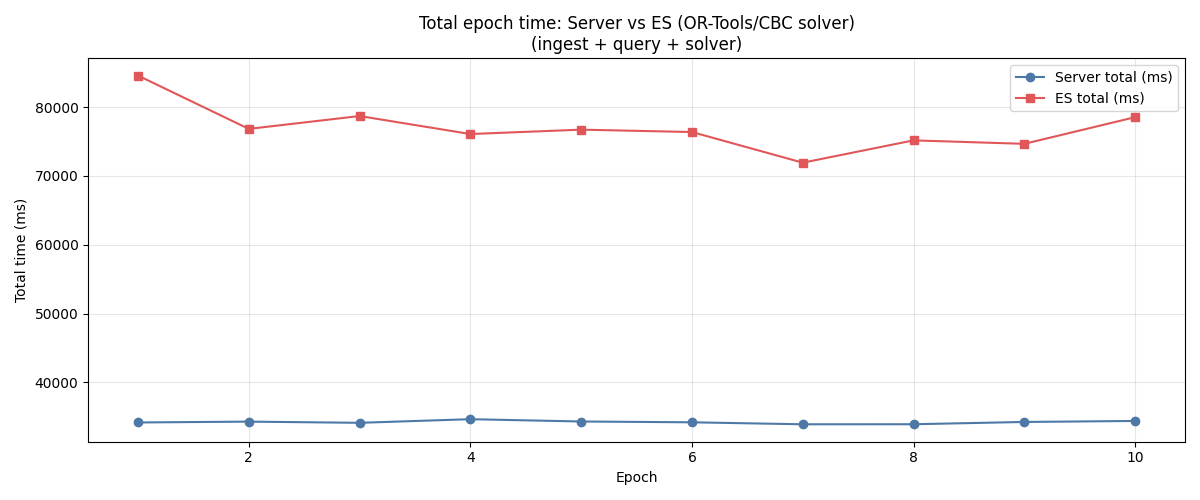
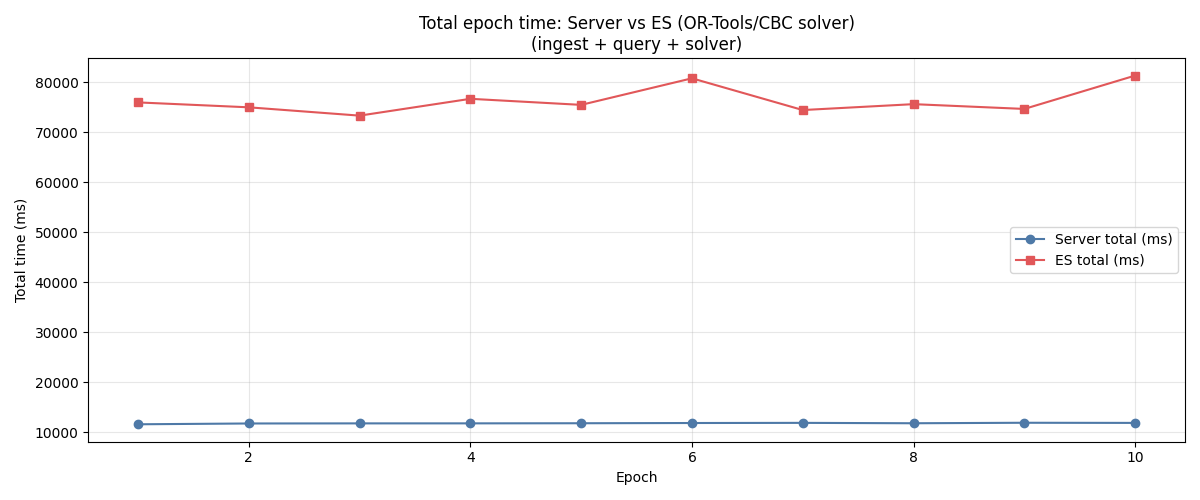
Add query-only RTT plot; fix OR-Tools server-usage extraction + solver warmup
- plot_query_solver_only.py: new plot_query_only() — single log-y bar chart
  comparing approximate (sketch) vs Elastic Search query time, no solver subplot.
- run_rtt_sweep_epoch_full_ortools.py: _extract_server_usage now reads the
  "sum" key (server switched cumulative->sum in f16475d; reading "cumulative"
  yielded all-zero usage, which made the OR-Tools CBC solve hang on a
  degenerate empty-cluster instance). Run ES solve before server solve, and
  add a discarded warmup solve per epoch so both timed solves are cache-warm
  and order-independent.
- rtt_sweep_common.py: start server with `cargo run --release`.
- Regenerated CBC 30-node data/plots with the release build.

diff --git a/scripts/run_rtt_sweep_epoch_full_ortools.py b/scripts/run_rtt_sweep_epoch_full_ortools.py
@@ -275,7 +275,9 @@ def _extract_server_usage(server_json: dict) -> Dict[str, Dict[str, float]]:
         node_id = item.get("key")
         if not node_id:
             continue
-        cumulative = item.get("cumulative") or {}
+        # Server now returns cumulative values under the "sum" key (was
+        # "cumulative" before commit f16475d switched the agg to sum).
+        cumulative = item.get("sum") or item.get("cumulative") or {}
         usage[str(node_id)] = {
             "cpu": float(cumulative.get("cpu_cores", 0.0) or 0.0),
             "memory": float(cumulative.get("memory_gb", 0.0) or 0.0),
@@ -560,15 +562,26 @@ def main() -> None:
             es_solver_ms = 0.0
             if args.run_solver and assets is not None and solver_context is not None:
                 backend = args.solver_backend
-                print(f"  running OR-Tools ({backend}) solver on server metrics ...")
+                es_usage = _extract_es_usage(es_json)
                 server_usage = _extract_server_usage(server_json)
-                server_sr = run_solver_for_usage(server_usage, assets, solver_context, solver_backend=backend)
-                server_solver_ms = server_sr.elapsed_ms
+
+                # Warmup solve (discarded). The preceding 1M-row ingest/query
+                # phase evicts the solver + OR-Tools/CBC working set from CPU
+                # cache, so whichever timed solve runs first pays a ~2x cold
+                # penalty. A throwaway solve repopulates that state, making the
+                # two timed solves below both "warm" and comparable regardless
+                # of order. (The model structure is identical for ES/server, so
+                # warming with either usage gives neither side an advantage.)
+                print(f"  warmup OR-Tools ({backend}) solver (discarded) ...")
+                run_solver_for_usage(es_usage, assets, solver_context, solver_backend=backend)
 
                 print(f"  running OR-Tools ({backend}) solver on ES metrics ...")
-                es_usage = _extract_es_usage(es_json)
                 es_sr = run_solver_for_usage(es_usage, assets, solver_context, solver_backend=backend)
                 es_solver_ms = es_sr.elapsed_ms
+
+                print(f"  running OR-Tools ({backend}) solver on server metrics ...")
+                server_sr = run_solver_for_usage(server_usage, assets, solver_context, solver_backend=backend)
+                server_solver_ms = server_sr.elapsed_ms
 
             # --- TOTALS ---
             server_total_ms = server_ingest_ms + server_query_ms + server_solver_ms

diff --git a/scripts/plot_query_solver_only.py b/scripts/plot_query_solver_only.py
@@ -143,6 +143,54 @@ def plot_query_solver_split(csv_path: Path, out_path: Path, backend: str) -> Non
     print(f"Saved: {out_path}")
 
 
+def plot_query_only(csv_path: Path, out_path: Path, backend: str) -> None:
+    """Single bar chart comparing query time only (no solver), log y-axis."""
+    rows = load_csv(csv_path)
+
+    TITLE_FS = 17
+    LABEL_FS = 15
+    TICK_FS = 13
+    LEGEND_FS = 13
+
+    epochs = [int(r["epoch"]) for r in rows]
+    s_query = [float(r["server_query_ms"]) for r in rows]
+    e_query = [float(r["es_query_ms"]) for r in rows]
+
+    x = np.arange(len(epochs))
+    bar_w = 0.35
+
+    fig, ax_q = plt.subplots(figsize=(7.2, 4.4))
+
+    ax_q.bar(x - bar_w / 2, s_query, bar_w, label="Approximate Query", color="#2a9d8f")
+    ax_q.bar(x + bar_w / 2, e_query, bar_w, label="Elastic Search Query", color="#f28e2b")
+    ax_q.set_xlabel("Epoch", fontsize=LABEL_FS)
+    ax_q.set_ylabel("Query Time (ms)", fontsize=LABEL_FS)
+    ax_q.set_yscale("log")
+    ax_q.grid(axis="y", alpha=0.3)
+    ax_q.tick_params(axis="both", labelsize=TICK_FS)
+    ax_q.set_title(
+        "Query Time Comparison\n"
+        "Approximate VS Exact",
+        fontsize=TITLE_FS,
+        pad=14,
+    )
+    ax_q.set_xticks(x)
+    ax_q.set_xticklabels([str(e) for e in epochs])
+
+    ax_q.legend(
+        loc="upper center",
+        bbox_to_anchor=(0.5, -0.18),
+        ncol=2,
+        fontsize=LEGEND_FS,
+        frameon=False,
+    )
+
+    plt.tight_layout(rect=[0, 0.06, 1, 0.97])
+    plt.savefig(out_path, dpi=220)
+    plt.close(fig)
+    print(f"Saved: {out_path}")
+
+
 def plot_query_solver_logy(csv_path: Path, out_path: Path, backend: str) -> None:
     rows = load_csv(csv_path)
 
@@ -209,6 +257,11 @@ if __name__ == "__main__":
     plot_query_solver_split(
         data_dir / "rtt_results_epoch_full_ortools_cbc_30nodes.csv",
         plot_dir / "rtt_epoch_query_solver_split_ortools_cbc_30nodes.png",
+        "CBC",
+    )
+    plot_query_only(
+        data_dir / "rtt_results_epoch_full_ortools_cbc_30nodes.csv",
+        plot_dir / "rtt_epoch_query_only_ortools_cbc_30nodes.png",
         "CBC",
     )
     plot_query_solver_logy(

diff --git a/scripts/rtt_sweep_common.py b/scripts/rtt_sweep_common.py
@@ -361,7 +361,7 @@ def start_server(log_path: Path | None = None, truncate_log: bool = False) -> su
         mode = "w" if truncate_log else "a"
         stdout_target = open(log_path, mode, encoding="utf-8")
     proc = subprocess.Popen(
-        ["cargo", "run"],
+        ["cargo", "run", "--release"],
         cwd=server_dir,
         stdout=stdout_target or subprocess.PIPE,
         stderr=subprocess.STDOUT,
